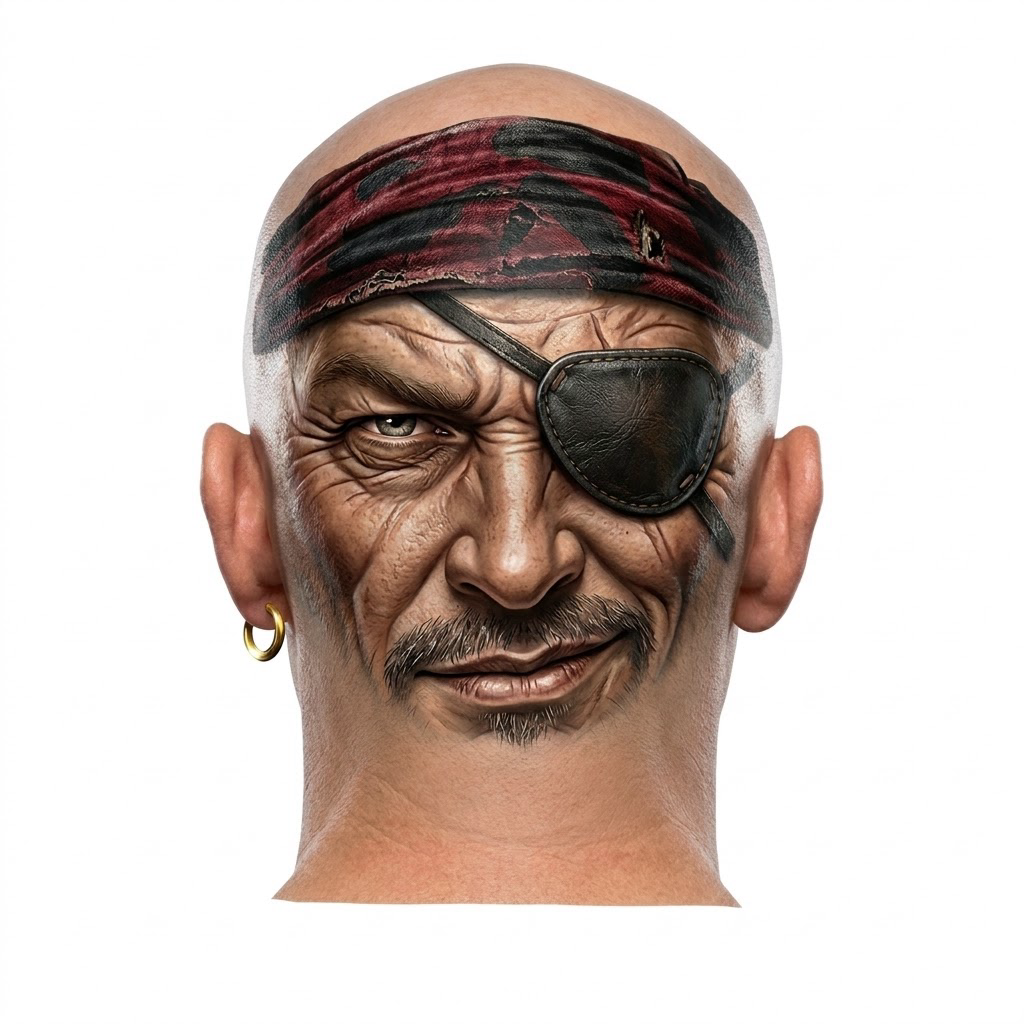
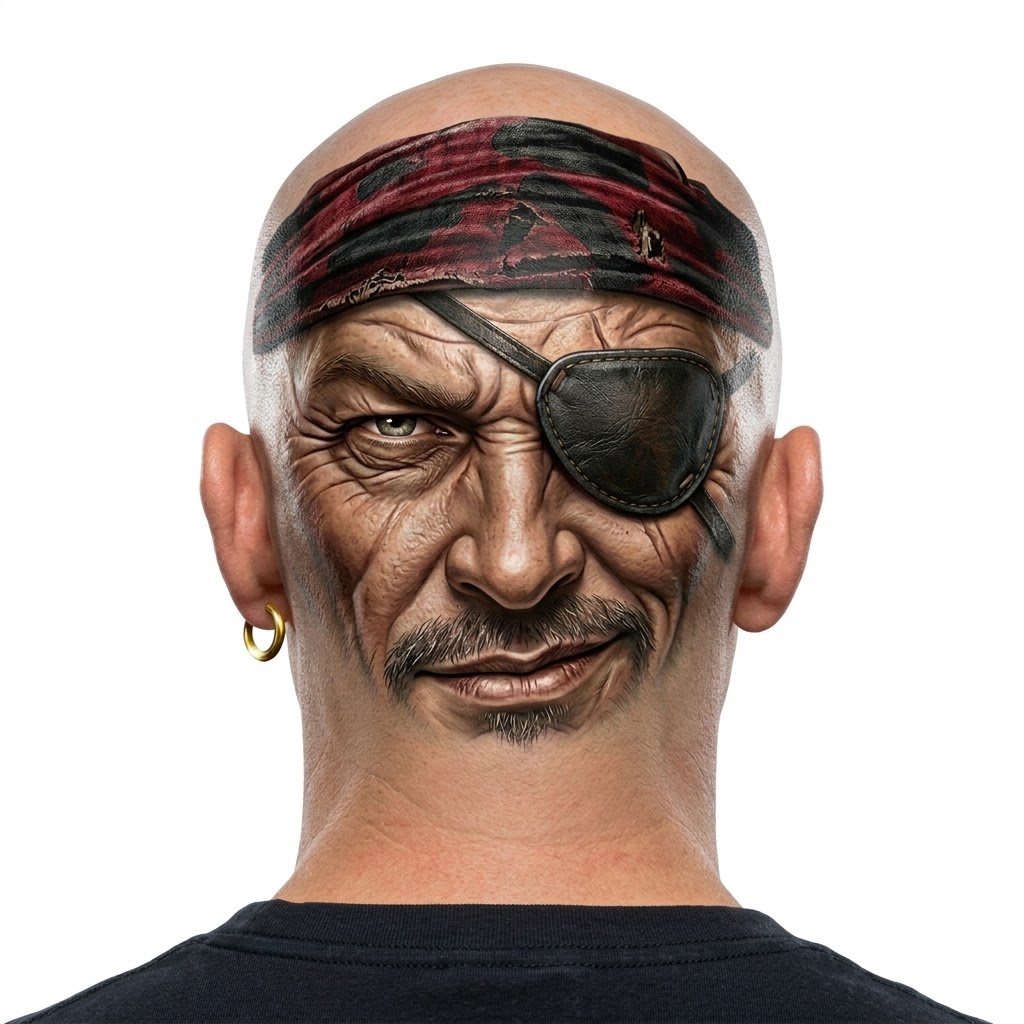
Replace static hero with updated pirate_head image
Show a single non-morphing scalp frame converted from the new JPEG asset.

diff --git a/public/index.html b/public/index.html
@@ -74,7 +74,11 @@
             </div>
             <div class="hero__visual">
               <img
+<<<<<<< HEAD
                 class="hero__image"
+=======
+                class="hero__frame is-active"
+>>>>>>> 192870a (Replace static hero with updated pirate_head image)
                 src="assets/hero-ship-scalp.png"
                 width="1024"
                 height="1024"
